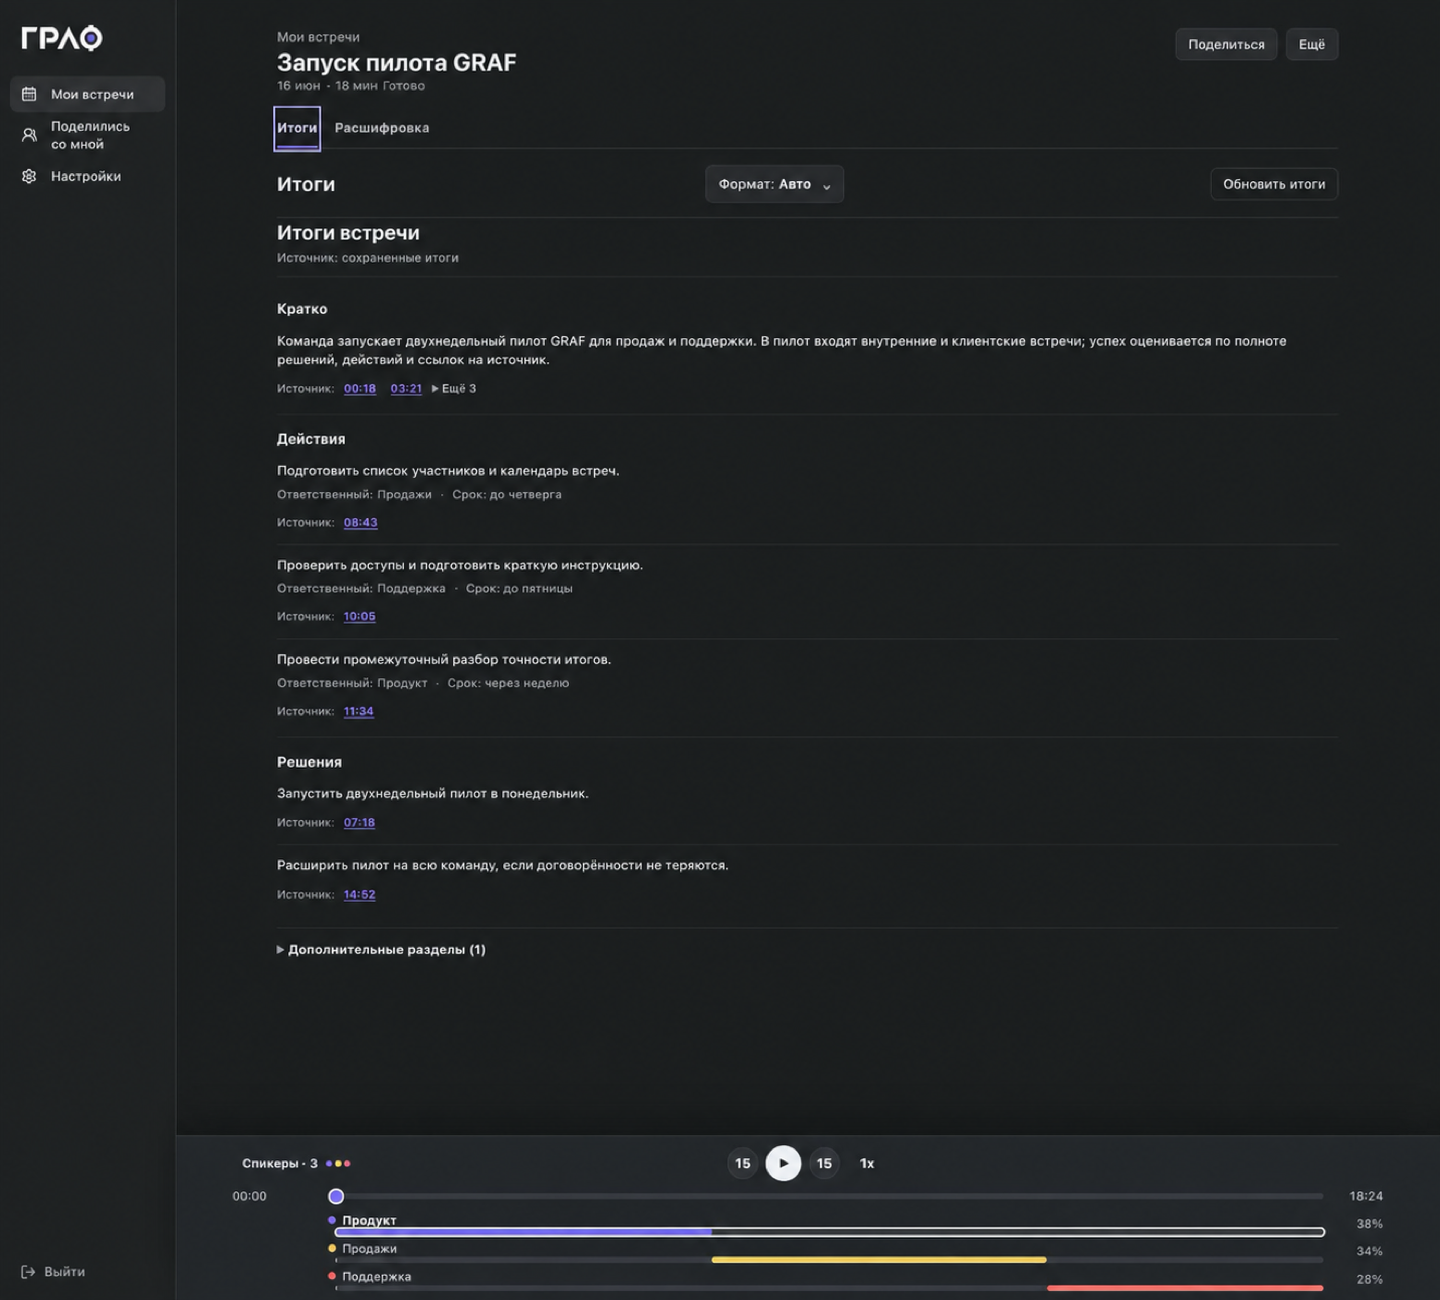
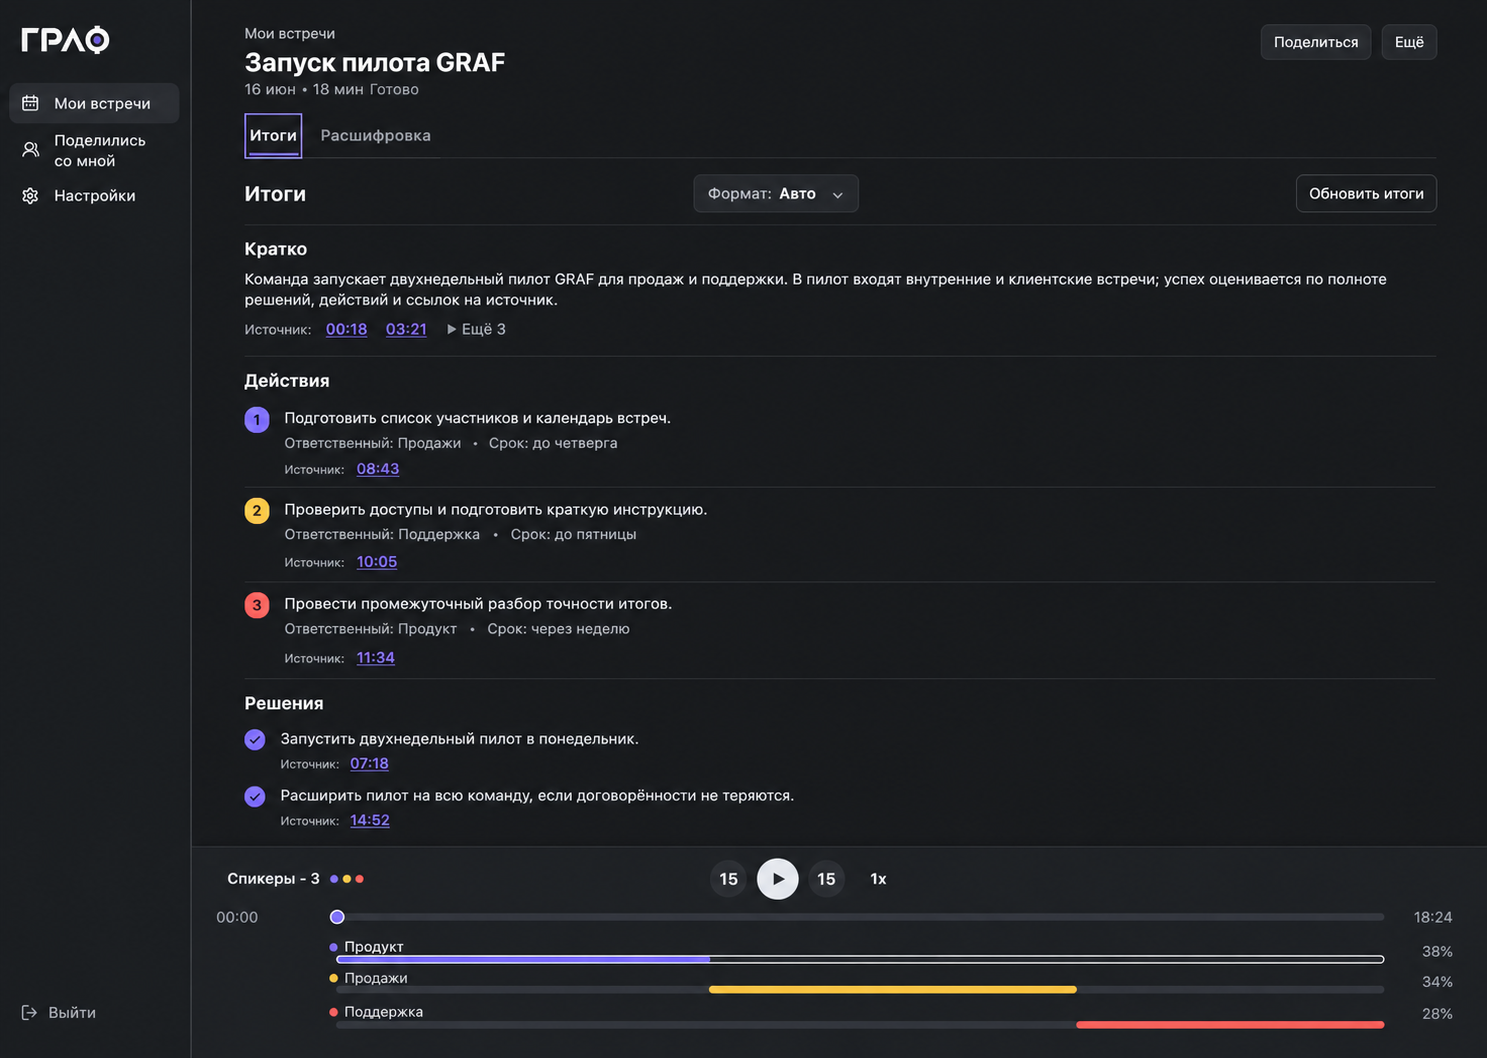
fix(landing): обновить product-proof скриншоты

diff --git a/apps/server/src/twobrain_rec_server/public/templates/public/landing.html b/apps/server/src/twobrain_rec_server/public/templates/public/landing.html
@@ -85,8 +85,8 @@
                       <img
                         class="hero-outcome-image"
                         src="{{ public_static_asset_url('landing-transcript-proof.png') }}"
-                        width="1440"
-                        height="1300"
+                        width="1487"
+                        height="1058"
                         fetchpriority="high"
                         alt="Расшифровка 18-минутной встречи о запуске пилота: содержательный диалог продукта, продаж и поддержки с таймкодами"
                       >
@@ -99,8 +99,8 @@
                       <img
                         class="hero-outcome-image"
                         src="{{ public_static_asset_url('landing-outcome-proof.png') }}"
-                        width="1440"
-                        height="1300"
+                        width="1487"
+                        height="1058"
                         alt="Итоги той же встречи: резюме, три действия с ответственными, два решения и ссылки на исходные реплики"
                       >
                       <div class="hero-proof-slide-caption">
@@ -259,8 +259,8 @@
                 >
                 <img
                   src="{{ public_static_asset_url('landing-outcome-proof.png') }}"
-                  width="1440"
-                  height="1300"
+                  width="1487"
+                  height="1058"
                   loading="lazy"
                   alt="Реальный экран итогов 18-минутной встречи GRAF с тремя действиями, двумя решениями и ссылками на исходные реплики"
                 >

diff --git a/apps/server/src/twobrain_rec_server/public/static/public/landing.css b/apps/server/src/twobrain_rec_server/public/static/public/landing.css
@@ -260,6 +260,7 @@ h3 {
 
 .hero-copy {
   max-width: 650px;
+  min-width: 0;
 }
 
 .eyebrow,
@@ -346,6 +347,7 @@ h1 span {
 .hero-product {
   position: relative;
   isolation: isolate;
+  min-width: 0;
   width: min(100%, 640px);
   margin: 0 0 0 auto;
   perspective: 1400px;
@@ -381,7 +383,7 @@ h1 span {
 }
 
 .hero-proof-stack {
-  aspect-ratio: 1440 / 1300;
+  aspect-ratio: 1487 / 1058;
   overflow: hidden;
   border-radius: 17px;
   transform: rotateX(1.6deg) rotateZ(-0.55deg) translateY(2px);
@@ -1301,7 +1303,7 @@ h2 {
   }
 }
 
-@media (max-width: 760px) {
+@media (max-width: 820px) {
   :root {
     --page-pad: 18px;
     --section-gap: 80px;

diff --git a/apps/server/tests/unit/test_public_landing.py b/apps/server/tests/unit/test_public_landing.py
@@ -76,8 +76,8 @@ def test_public_landing_uses_local_static_assets(client) -> None:
     assert "/static/public/landing-hero-product.png?v=" not in response.text
     assert "/static/cabinet/graf-wordmark-dark@2x.png?v=" in response.text
     assert "/static/cabinet/favicon.ico?v=" in response.text
-    assert 'width="1440"' in response.text
-    assert 'height="1300"' in response.text
+    assert 'width="1487"' in response.text
+    assert 'height="1058"' in response.text
     assert 'width="3040"' in response.text
     assert 'height="2000"' in response.text
     assert "/static/public/fonts/onest-cyrillic.woff2?v=" in response.text

diff --git a/specs/142-launch-landing-redesign/design-qa.md b/specs/142-launch-landing-redesign/design-qa.md
@@ -1,5 +1,21 @@
 # Design QA: Launch Landing Redesign
 
+## Marketing-proof crop refresh — 2026-08-08
+
+The desktop hero pair was re-composed from the current GRAF runtime screens.
+The product UI, synthetic meeting content, speaker lanes, timestamps and
+player remain intact; only the crop and density were refined to remove unused
+lower space and keep the transcript/outcome pair visually balanced.
+
+| Asset | Pixels | SHA-256 | Provenance |
+|---|---:|---|---|
[2 lines of base64/hex data omitted]
+
+- The mobile source pair remains the privacy-cleared runtime capture so small
+  screens retain exact product truth and readable native controls.
+- No personal data, real names or external meeting content were introduced.
+
 ## Product-proof depth and application breadth — 2026-08-07
 
 The final proof sequence uses one 18-minute synthetic pilot meeting with three

diff --git a/CHANGELOG.md b/CHANGELOG.md
@@ -26,6 +26,28 @@
 ### Операции
 - _Пока нет записей._
 
+## [2026.08.08.1] - 2026-08-08
+
+
+### Добавлено
+- _Пока нет записей._
+
+### Изменено
+- Product-proof пара hero переразложена в плотный editorial crop без лишнего нижнего воздуха;
+  расшифровка и итоги теперь используют согласованный формат 1487 × 1058.
+
+### Исправлено
+- Hero корректно сжимается на узких grid-контейнерах, а tablet breakpoint покрывает 768 px без горизонтального overflow.
+
+### Безопасность
+- _Пока нет записей._
+
+### Документы
+- _Пока нет записей._
+
+### Операции
+- _Пока нет записей._
+
 ## [2026.08.07.7] - 2026-08-07
 
 
